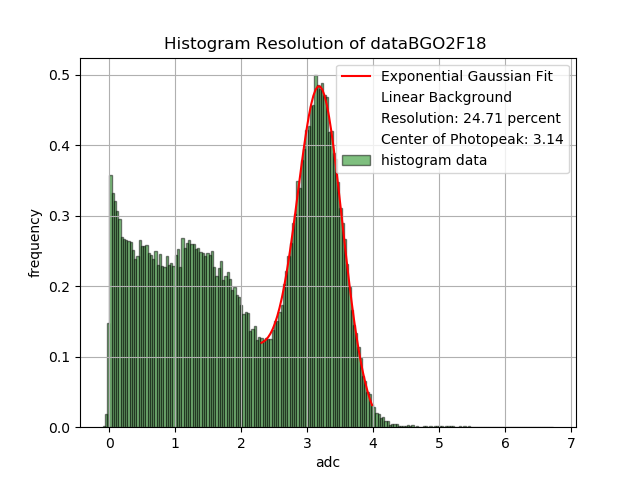
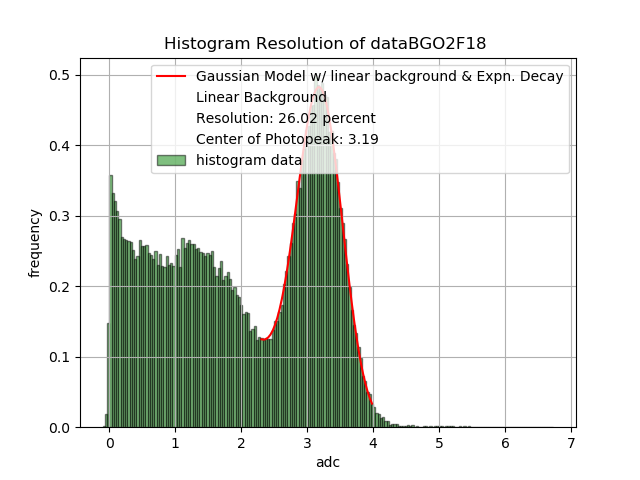
correctly implemented Kleine Lishina for single photopeak

Changed region(s): [[0.2188, 0.125, 0.875, 0.375], [0.4062, 0.6562, 0.4375, 0.7188]]

diff --git a/BGORESOLUTION/resolutionmethod2.py b/BGORESOLUTION/resolutionmethod2.py
@@ -6,6 +6,7 @@ import matplotlib.pyplot as plt
 
 import glob
 bins=200
+
 #cancelliamo file vecchi
 old=glob.glob('hist*.png')
 for oldfile in old:
@@ -18,8 +19,21 @@ filenames=glob.glob('data*.txt')
 
 ###Ora definiamo la funzione di klein nishina
 
-def kleinnishina(x,A,B):
-    return A*((1+(np.cos(B)**2)/2))*(1/(1+(x**2)*(1-np.cos(B)))**2)*(1+(x*(1-np.cos(B))**2)/(((1+np.cos(B)**2)*(1+x*(1-np.cos(B))))))
+m_electron_c2=511 #in Kev
+energy=511 #in Kev
+r_e=8e-30
+
+def ferg(x):
+    return m_electron_c2/energy+1-m_electron_c2/x
+def Utility_1(x):
+    return (1+ferg(x)**2)/2
+def Utility_2(x):
+    return 1/(1+(energy**2)*(1-ferg(x))**2)
+def Utility_3(x):
+    return (energy*(1-ferg(x))**2)/((1+ferg(x)**2)*(1+energy*(1-ferg(x))))
+
+def kleinnishina(x):
+    return r_e*Utility_1(x)*Utility_2(x)*(1+Utility_3(x))
 
 
 
@@ -28,6 +42,7 @@ def kleinnishina(x,A,B):
 
 for i in range(len(filenames)):
     f=filenames[i]
+    pathsavefigure=('/Users/JakeHarold/Desktop/workplace/Gruppo-3-Lab-Fisica-Medica/BGORESOLUTION/latex/histklein%s.png'%f.replace('.txt',''))
 
     print(f)
 
@@ -86,7 +101,8 @@ for i in range(len(filenames)):
             pass
     y=np.array(newheights)
     x=np.array(newcenters)
-#in base allo spettro fitto una gaussiana esponenzialmente corretta o una skewed
+
+#in base allo spettro, identificato da un indice che va da 0 a 10, fitto una gaussiana o una doppia gaussiana
     if i!=3 and i!=5:
 
         text='Gaussian Model w/ linear background & Expn. Decay'
@@ -97,23 +113,15 @@ for i in range(len(filenames)):
         peak1=GaussianModel(prefix='peak1')
         peak2=GaussianModel(prefix='peak2')
         peak=peak1+peak2
-#indovina i parametri iniziali
+
     noise=LinearModel()
+#indovina i parametri iniziali
+##Code Esponenziali
     tails=ExponentialModel(prefix='exp')
     mod=peak + noise + tails
     if i!=3 and i!=5:
         parspeak=peak.guess(y,x=x)
-    ###klein
 
-        klein=Model(kleinnishina)
-        mod2=peak + klein
-
-        params = klein.make_params(A=1,B=np.pi)
-        parss=params+parspeak
-        out2=mod2.fit(y,parss,x=x)
-
-
-    ###
     elif i==3 or i==5 :
 
         parspeak1=peak1.guess(y,x=x)
@@ -126,12 +134,28 @@ for i in range(len(filenames)):
 
     parstails=tails.guess(y,x=x)
     pars=parspeak+parslinear+parstails
-#fit
     out = mod.fit(y, pars, x=x)
+
+    ##klein-Nishina
+
+    klein=Model(kleinnishina)
+    mod2=peak + klein +noise
+    parss=parspeak+parslinear
+    out2=mod2.fit(y,parss,x=x)
+
+
+
+
+
+
+
+
 
 
 #ora calcoliamo le risoluzioni
+###GAUSSIANA SINGOLA
     if i!=3 and i!=5:
+        ##Exponential decay resolution
         fwhm=out.params['fwhm'].value
         center=out.params['center'].value
         resolution=100*fwhm/center
@@ -139,41 +163,56 @@ for i in range(len(filenames)):
         fwhmk=out2.params['fwhm'].value
         centerk=out2.params['center'].value
         resolutionk=100*fwhmk/centerk
-        ##Klein resolution
+###DOPPIA GAUSSIANA
     elif i==3 or i==5:
+        ##
         fwhm1=out.params['peak1fwhm'].value
         fwhm2=out.params['peak2fwhm'].value
         center1=out.params['peak1center'].value
         center2=out.params['peak2center'].value
         resolution1=100*fwhm1/center1
         resolution2=100*fwhm2/center2
+
+        fwhm1k=out2.params['peak1fwhm'].value
+        fwhm2k=out2.params['peak2fwhm'].value
+        center1k=out2.params['peak1center'].value
+        center2k=out2.params['peak2center'].value
+        resolution1k=100*fwhm1k/center1k
+        resolution2k=100*fwhm2k/center2k
+
     else:
         print('error')
 # salviamo i risultati del fit su un txt
     with open('fit_result%s.txt'%f.replace('.txt',''), 'w') as fh:
         fh.write(out.fit_report())
+
+    with open('fit_resultKlein%s.txt'%f.replace('.txt',''), 'w') as fh:
+        fh.write(out2.fit_report())
 #figura
 
 
     plt.title('Histogram Resolution of %s '%f.replace('.txt',''))
     plt.xlabel('adc')
     plt.plot(x, out.best_fit, 'r-', label=text)
-    plt.plot([], [], ' ', label='Linear Background')
+
     if i!=3 and i!=5:
         plt.plot([], [], ' ', label='Resolution: %.2f percent'%resolution)
         plt.plot([], [], ' ', label='Center of Photopeak: %.2f'%center)
         plt.plot(x, out2.best_fit, 'b--', label='Klein Nishina noise')
         plt.plot([], [], ' ', label='Resolution Klein: %.2f percent'%resolutionk)
-
+        plt.plot([], [], ' ', label='Center of Photopeak K-N: %.2f'%centerk)
     elif i==3 or i==5:
         plt.plot([], [], ' ', label='Resolution first peak: %.2f percent'%resolution1)
         plt.plot([], [], ' ', label='Center of first Photopeak: %.2f'%center1)
         plt.plot([], [], ' ', label='Resolution Second Photopeak: %.2f percent'%resolution2)
         plt.plot([], [], ' ', label='Center of second Photopeak: %.2f'%center2)
-
+        #plt.plot([], [], ' ', label='Resolution Klein First Peak: %.2f percent'%resolution1k)
+        #plt.plot([], [], ' ', label='Center of Klein First Peak K-N: %.2f'%center1k)
+        #plt.plot([], [], ' ', label='Resolution Klein Second Peak: %.2f percent'%resolution2k)
+        #plt.plot([], [], ' ', label='Center of Klein Second Peak K-N: %.2f'%center2k)
 
     plt.grid()
     plt.legend()
     plt.ylabel('frequency')
-    plt.savefig('histklein%s.png'%f.replace('.txt',''))
+    plt.savefig(pathsavefigure)
     plt.show()
